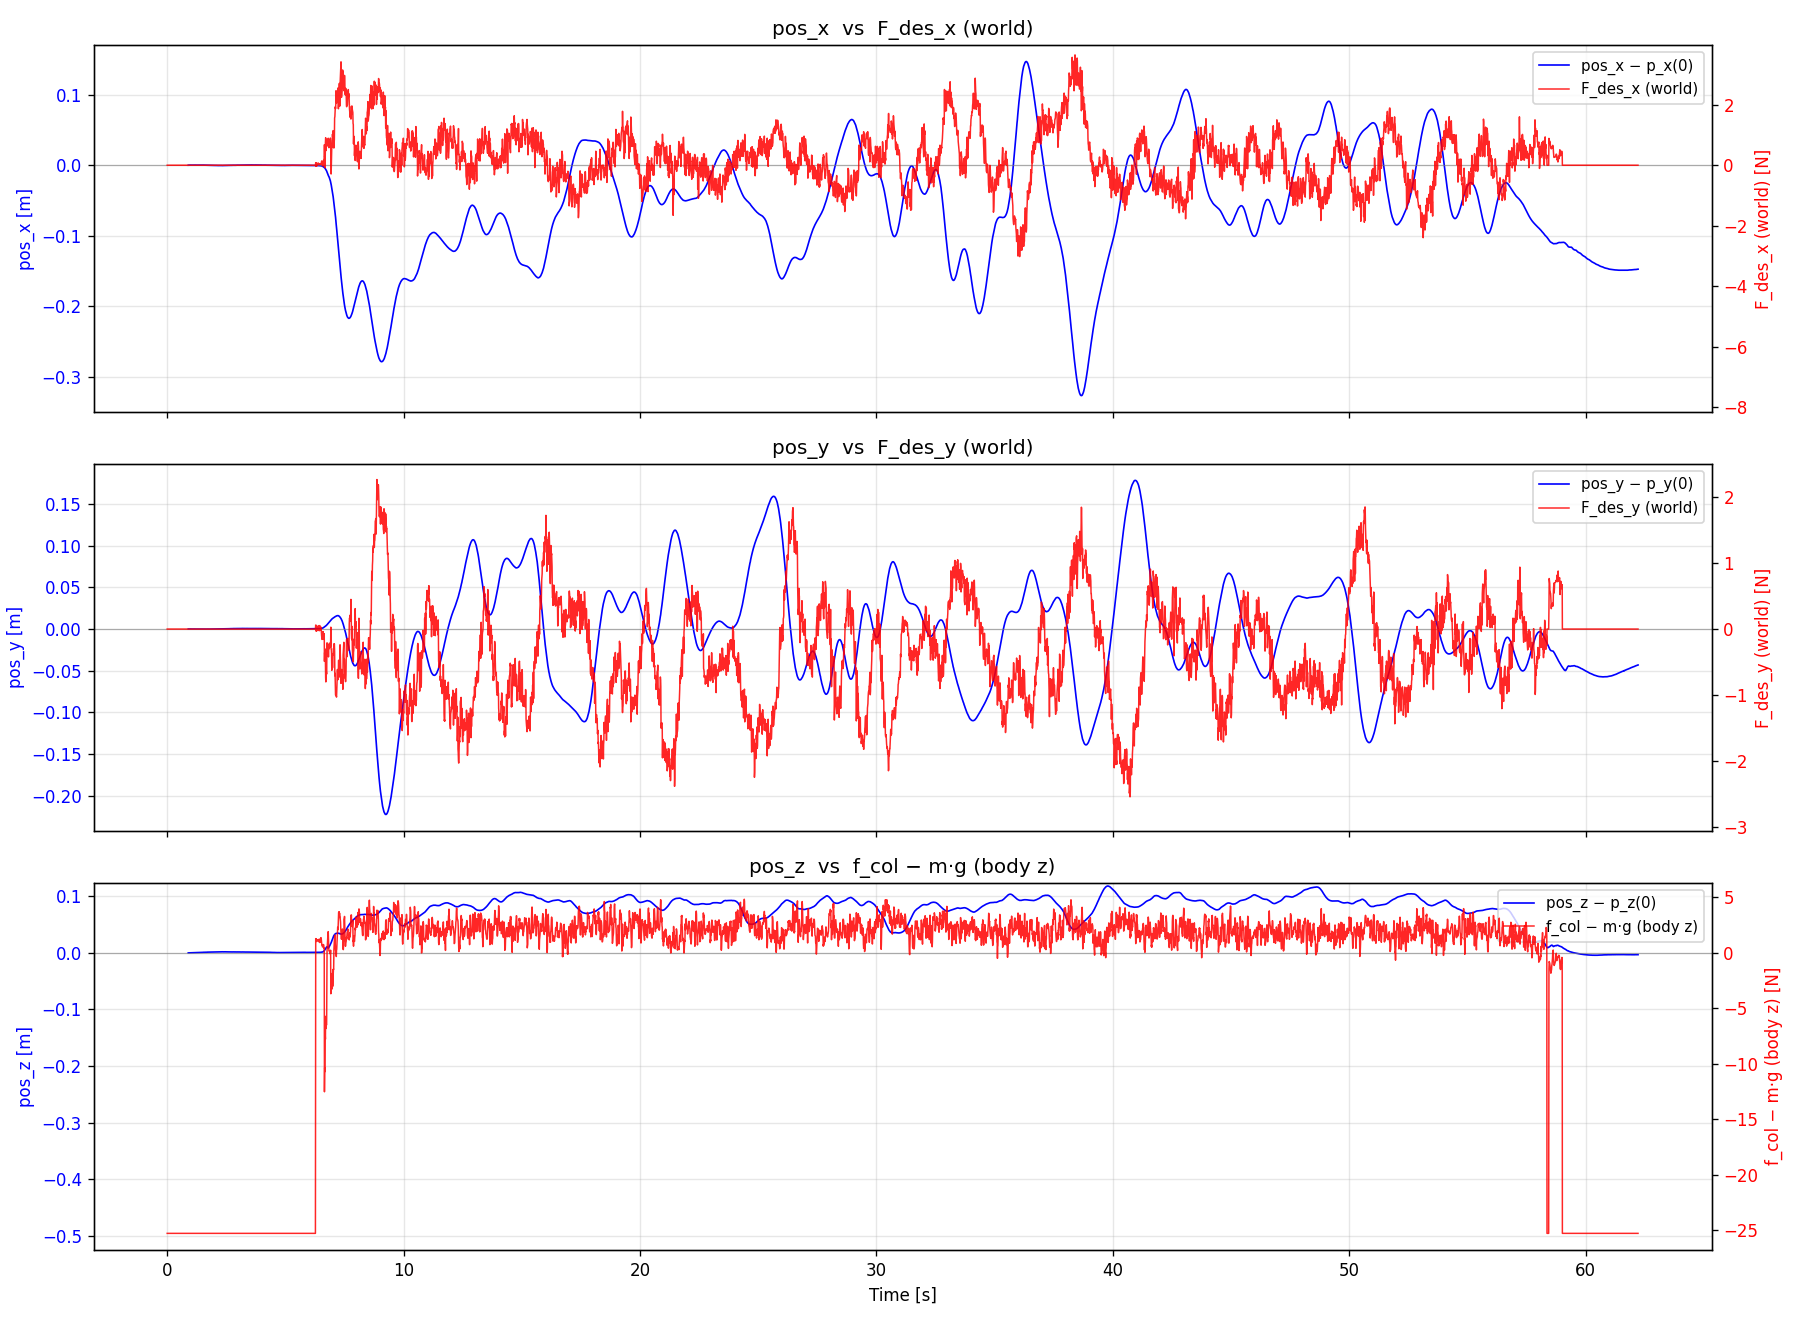
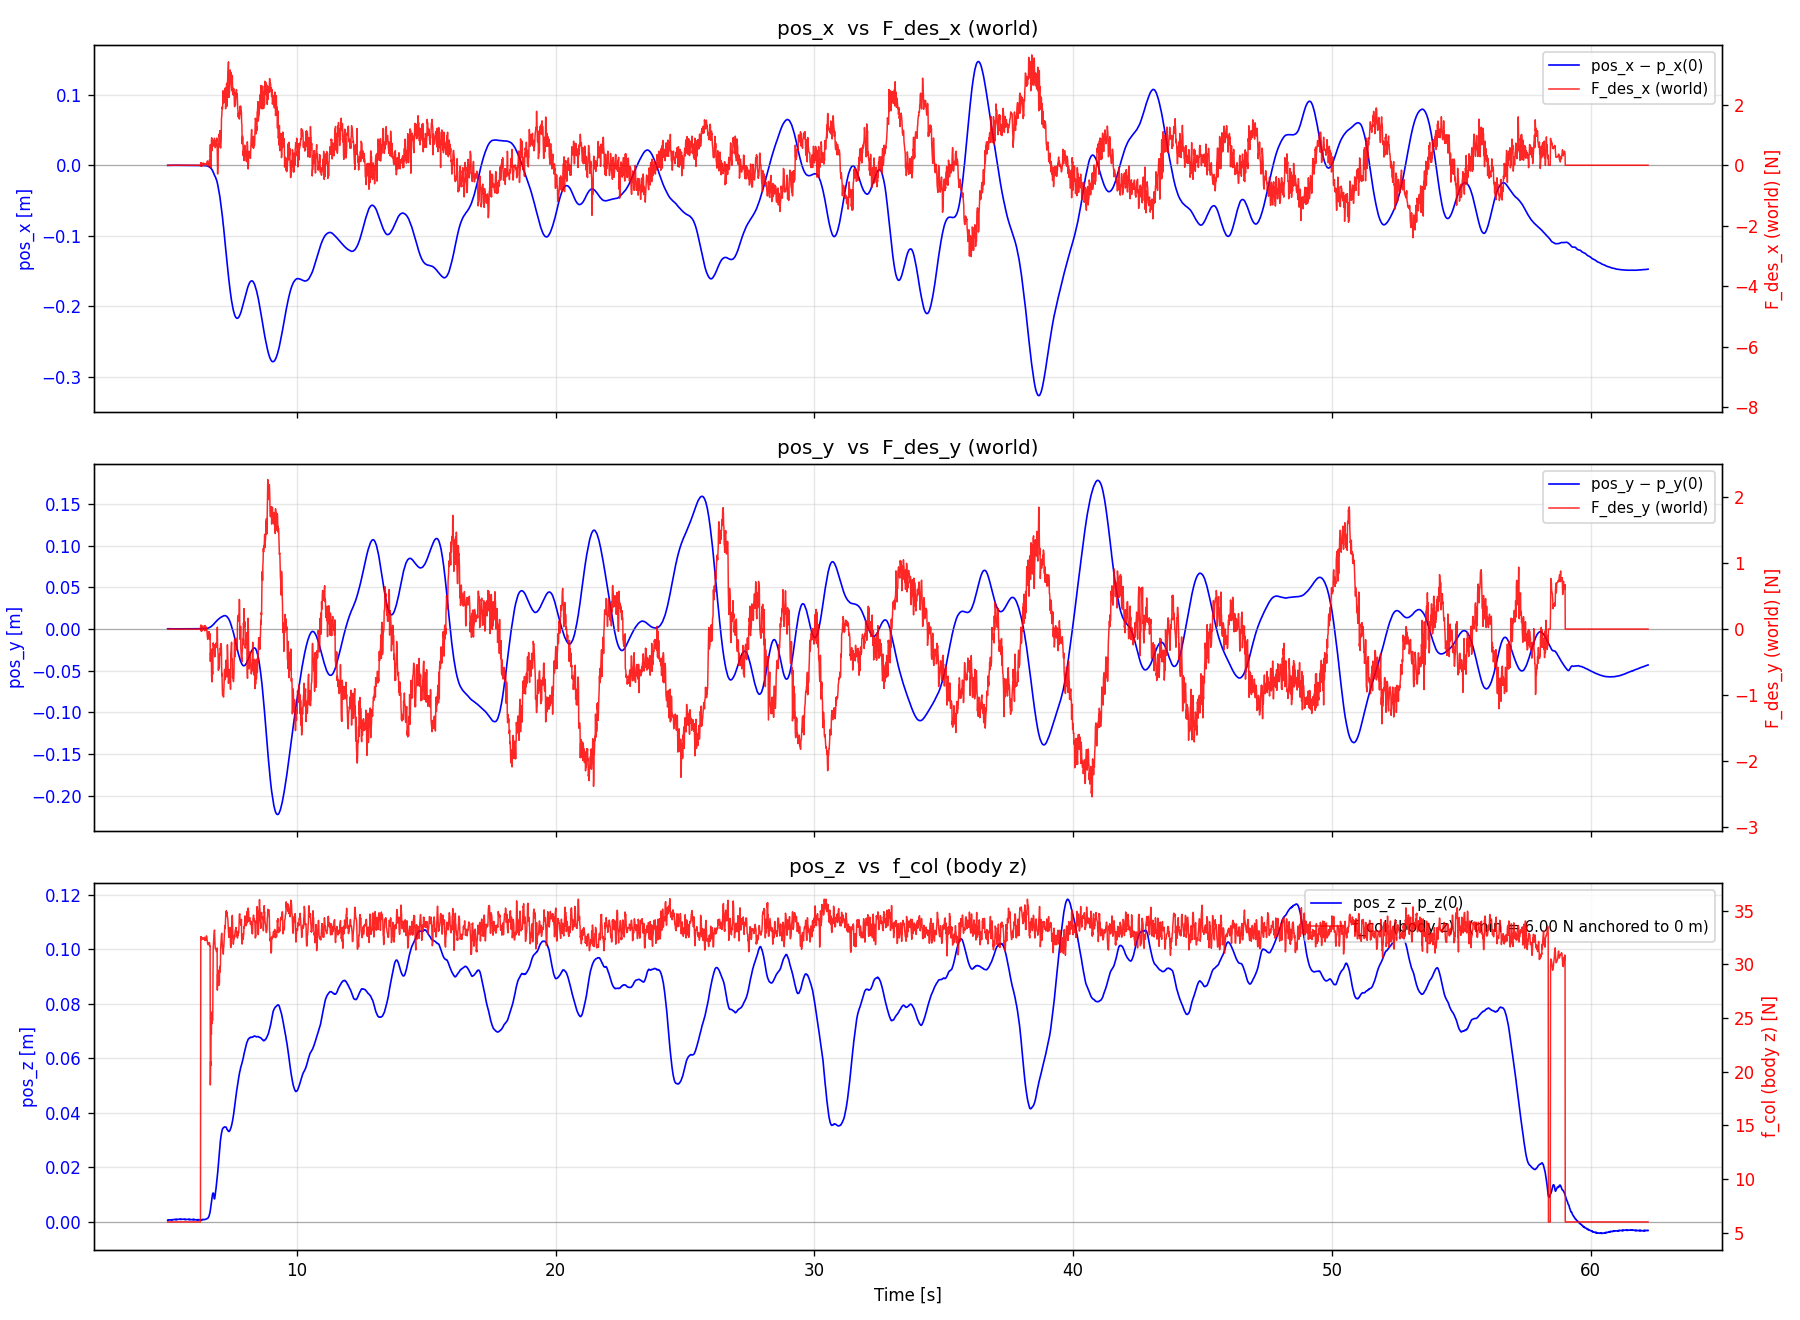
Fix z-panel: subtract initial z position so hover detail is visible
z trace now plots pos_z − p_z(0), starting at 0 at takeoff and rising
to ~0.08 m during hover.  Anchor pos_z = 0 m to min(f_col) on right
y-axis (using 1% quantile to avoid landing transient).

https://claude.ai/code/session_01VcVaAMfBwz3GjyXHR2i6jo

diff --git a/bag_folder/pos_vs_fdes.py b/bag_folder/pos_vs_fdes.py
@@ -93,37 +93,52 @@ print(f'  f_col − m·g     mean={(f_col[mask_c]-M*G).mean():+7.4f} N   std={(f
 
 # ── Plots — 3 rows × twin y-axes ──
 fig, axes = plt.subplots(3, 1, figsize=(15, 11), sharex=True)
-def align_zero(ax1, ax2):
-    """Align y=0 of two twin axes to the same horizontal line."""
+def align_levels(ax1, ax2, c1, c2):
+    """Align horizontal line c1 on ax1 with c2 on ax2."""
     y1lo, y1hi = ax1.get_ylim()
     y2lo, y2hi = ax2.get_ylim()
-    # fraction of zero from bottom
-    f1 = -y1lo / (y1hi - y1lo)
-    f2 = -y2lo / (y2hi - y2lo)
-    f = max(f1, f2)
-    if not (0 < f < 1): return
-    for ax, (lo, hi) in [(ax1, (y1lo, y1hi)), (ax2, (y2lo, y2hi))]:
-        r1 = hi / (1 - f) if hi > 0 else 0
-        r2 = -lo / f if lo < 0 else 0
-        R = max(r1, r2)
-        ax.set_ylim(-f * R, (1 - f) * R)
+    f1 = (c1 - y1lo) / (y1hi - y1lo)
+    f2 = (c2 - y2lo) / (y2hi - y2lo)
+    f = max(f1, f2, 0.001)
+    f = min(f, 0.999)
+    for ax, (lo, hi), c in [(ax1, (y1lo, y1hi), c1), (ax2, (y2lo, y2hi), c2)]:
+        # at this fraction f, value should be c
+        r_above = (hi - c) / (1 - f) if hi > c else 0
+        r_below = (c - lo) / f       if lo < c else 0
+        R = max(r_above, r_below)
+        ax.set_ylim(c - f * R, c + (1 - f) * R)
 
-labels = [('x', 0, F_des_x,       'F_des_x (world)'),
-          ('y', 1, F_des_y,       'F_des_y (world)'),
-          ('z', 2, f_col - M * G, 'f_col − m·g (body z)')]
+def align_zero(ax1, ax2):
+    align_levels(ax1, ax2, 0.0, 0.0)
 
-for k, (axis, idx, F, F_label) in enumerate(labels):
+# Plot only the airborne segment so hover detail is visible
+t_o_a = odom_t[mask]
+t_c_a = ctrl_t[mask_c]
+
+# For z: anchor pos_z = 0 m  ↔  min(f_col).  Use 1% quantile to ignore landing.
+f_col_min = float(np.quantile(f_col[mask_c], 0.01))
+
+panels = [('x', 0, F_des_x[mask_c], 'F_des_x (world)', p_zero[mask, 0], 0.0, 0.0),
+          ('y', 1, F_des_y[mask_c], 'F_des_y (world)', p_zero[mask, 1], 0.0, 0.0),
+          ('z', 2, f_col   [mask_c], 'f_col (body z)',  p_zero[mask, 2], 0.0, f_col_min)]
+
+for k, (axis, idx, F, F_label, p_dat, p_ref, F_ref) in enumerate(panels):
     ax_p = axes[k]
     ax_F = ax_p.twinx()
-    l1, = ax_p.plot(odom_t, p_zero[:, idx], 'b', lw=1.0, label=f'pos_{axis} − p_{axis}(0)')
-    l2, = ax_F.plot(ctrl_t, F,              'r', lw=0.9, alpha=0.85, label=F_label)
+    l1_lab = f'pos_{axis} − p_{axis}(0)'
+    if axis == 'z':
+        l2_lab = f'{F_label}   (min = {F_ref:.2f} N anchored to 0 m)'
+    else:
+        l2_lab = F_label
+    l1, = ax_p.plot(t_o_a, p_dat, 'b', lw=1.0, label=l1_lab)
+    l2, = ax_F.plot(t_c_a, F,     'r', lw=0.9, alpha=0.85, label=l2_lab)
     ax_p.set_ylabel(f'pos_{axis} [m]', color='b')
     ax_F.set_ylabel(f'{F_label} [N]', color='r')
     ax_p.tick_params(axis='y', labelcolor='b')
     ax_F.tick_params(axis='y', labelcolor='r')
     ax_p.grid(alpha=0.3)
-    align_zero(ax_p, ax_F)
-    ax_p.axhline(0, color='gray', lw=0.7, alpha=0.6)
+    align_levels(ax_p, ax_F, p_ref, F_ref)
+    ax_p.axhline(p_ref, color='gray', lw=0.7, alpha=0.6)
     ax_p.legend([l1, l2], [l1.get_label(), l2.get_label()], loc='upper right', fontsize=9)
     ax_p.set_title(f'pos_{axis}  vs  {F_label}')
 axes[-1].set_xlabel('Time [s]')